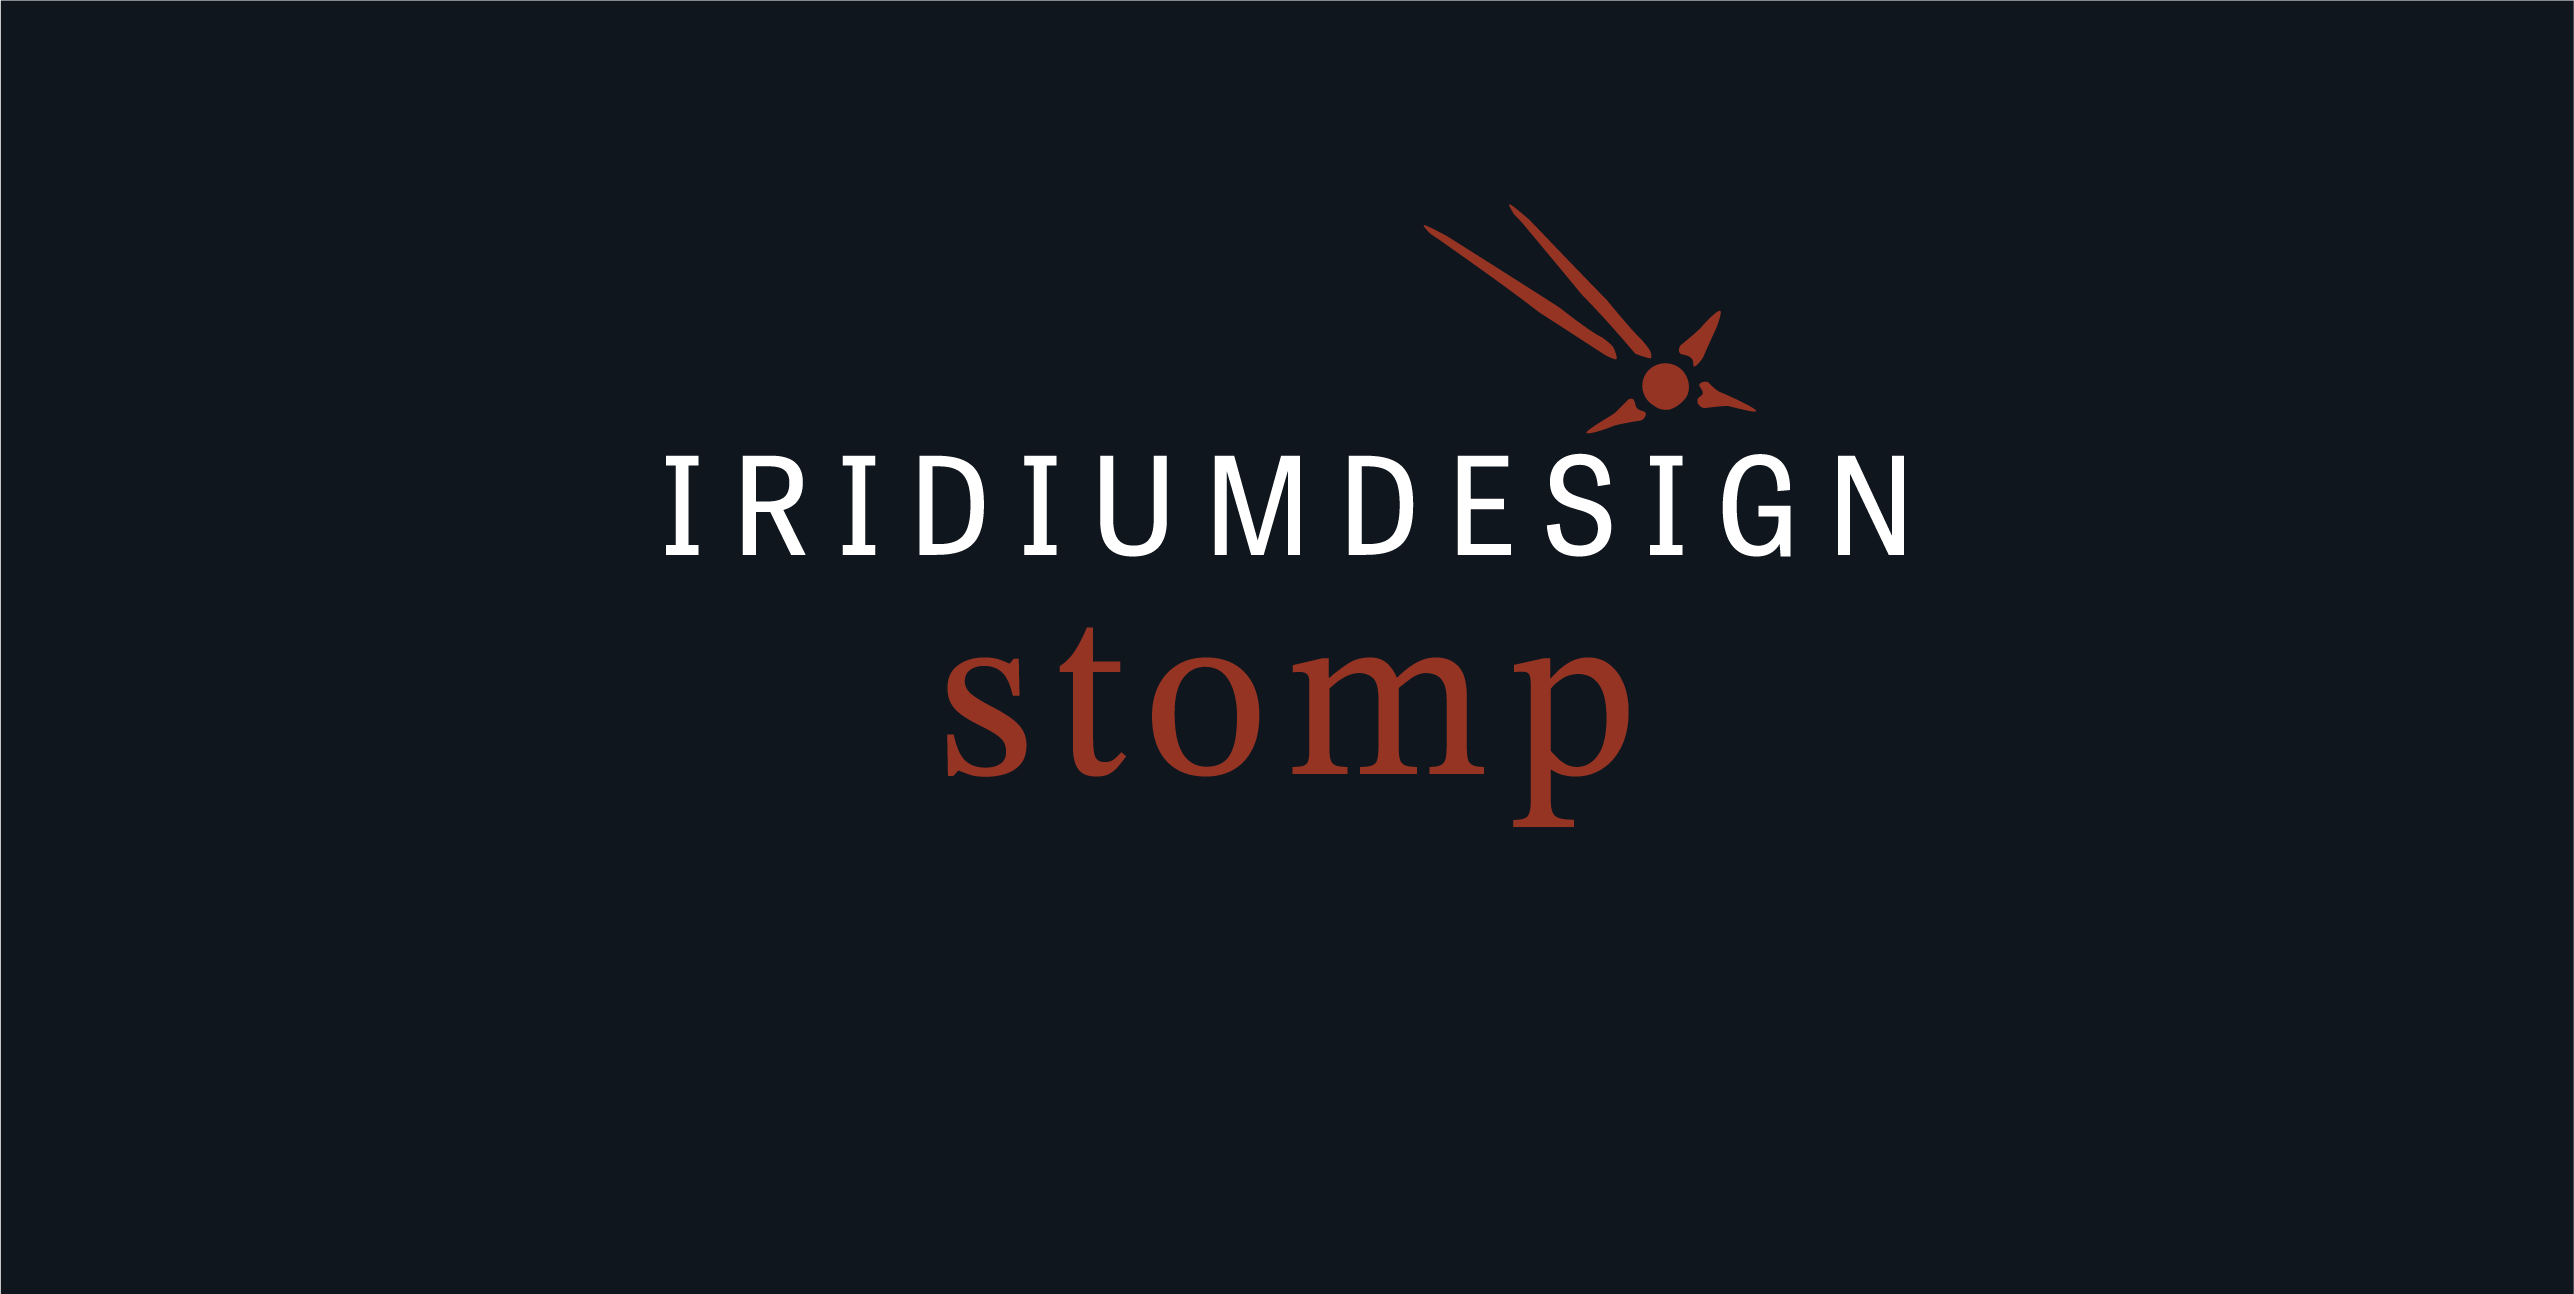
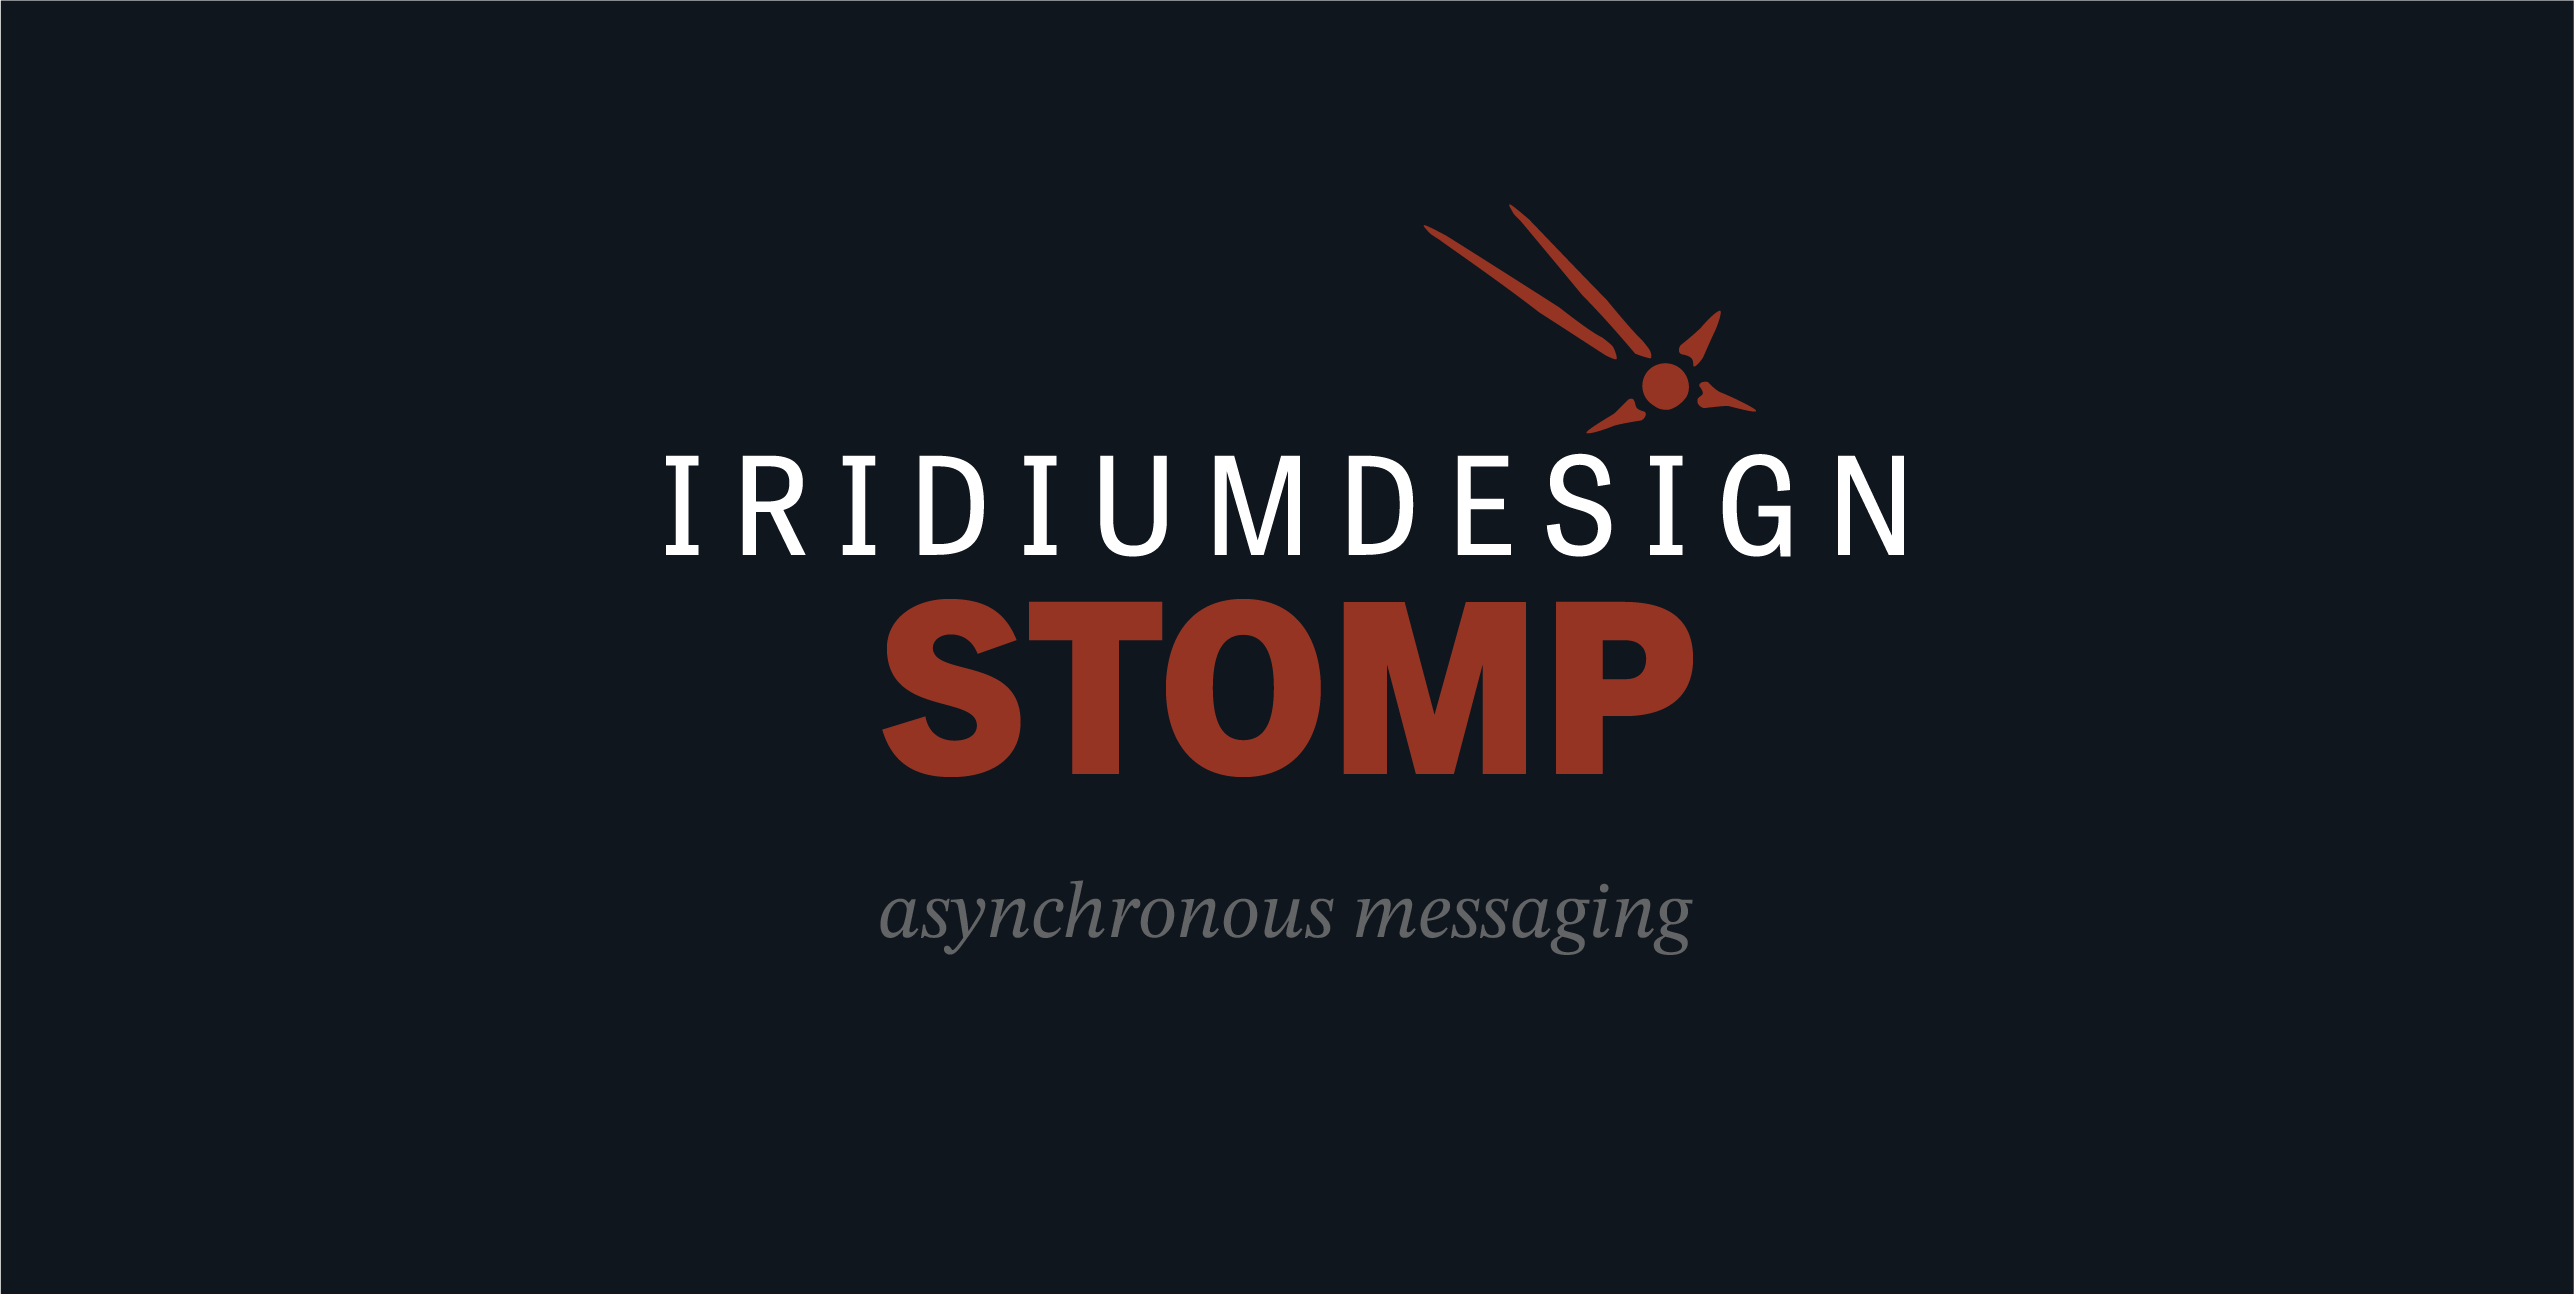
branding image

Changed region(s): [[0.3419, 0.4637, 0.6838, 0.6491], [0.3419, 0.6801, 0.6527, 0.7419]]

diff --git a/README.md b/README.md
@@ -1,7 +1,7 @@
 <p align="center">
   <img
     src="https://raw.githubusercontent.com/iridiumdesign/iridium-stomp/main/branding/iridium-stomp-github-banner.png"
-    alt="iridium-stomp — frame relay :: async rust"
+    alt="iridium-stomp"
     width="880">
 </p>
 
